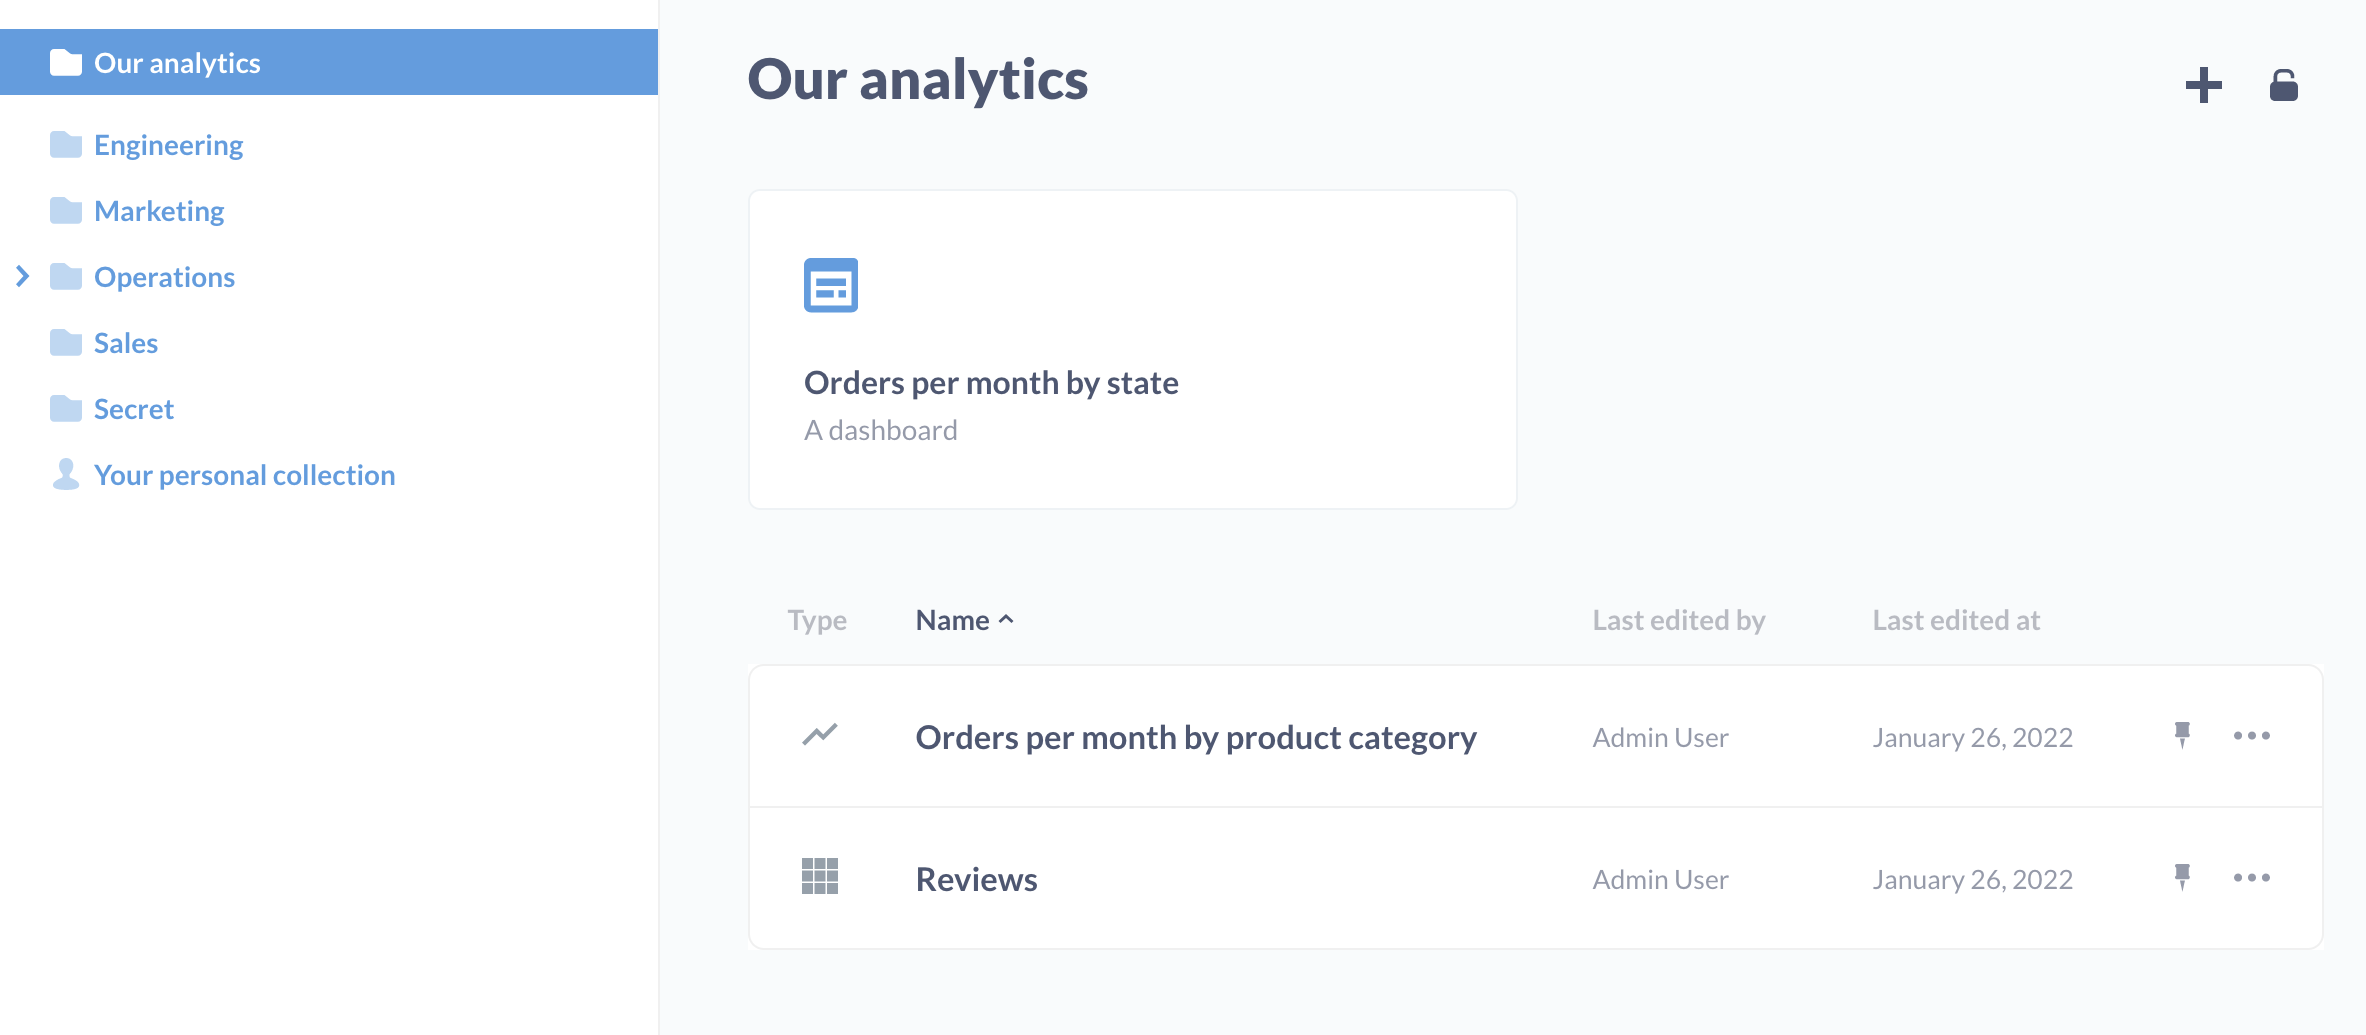
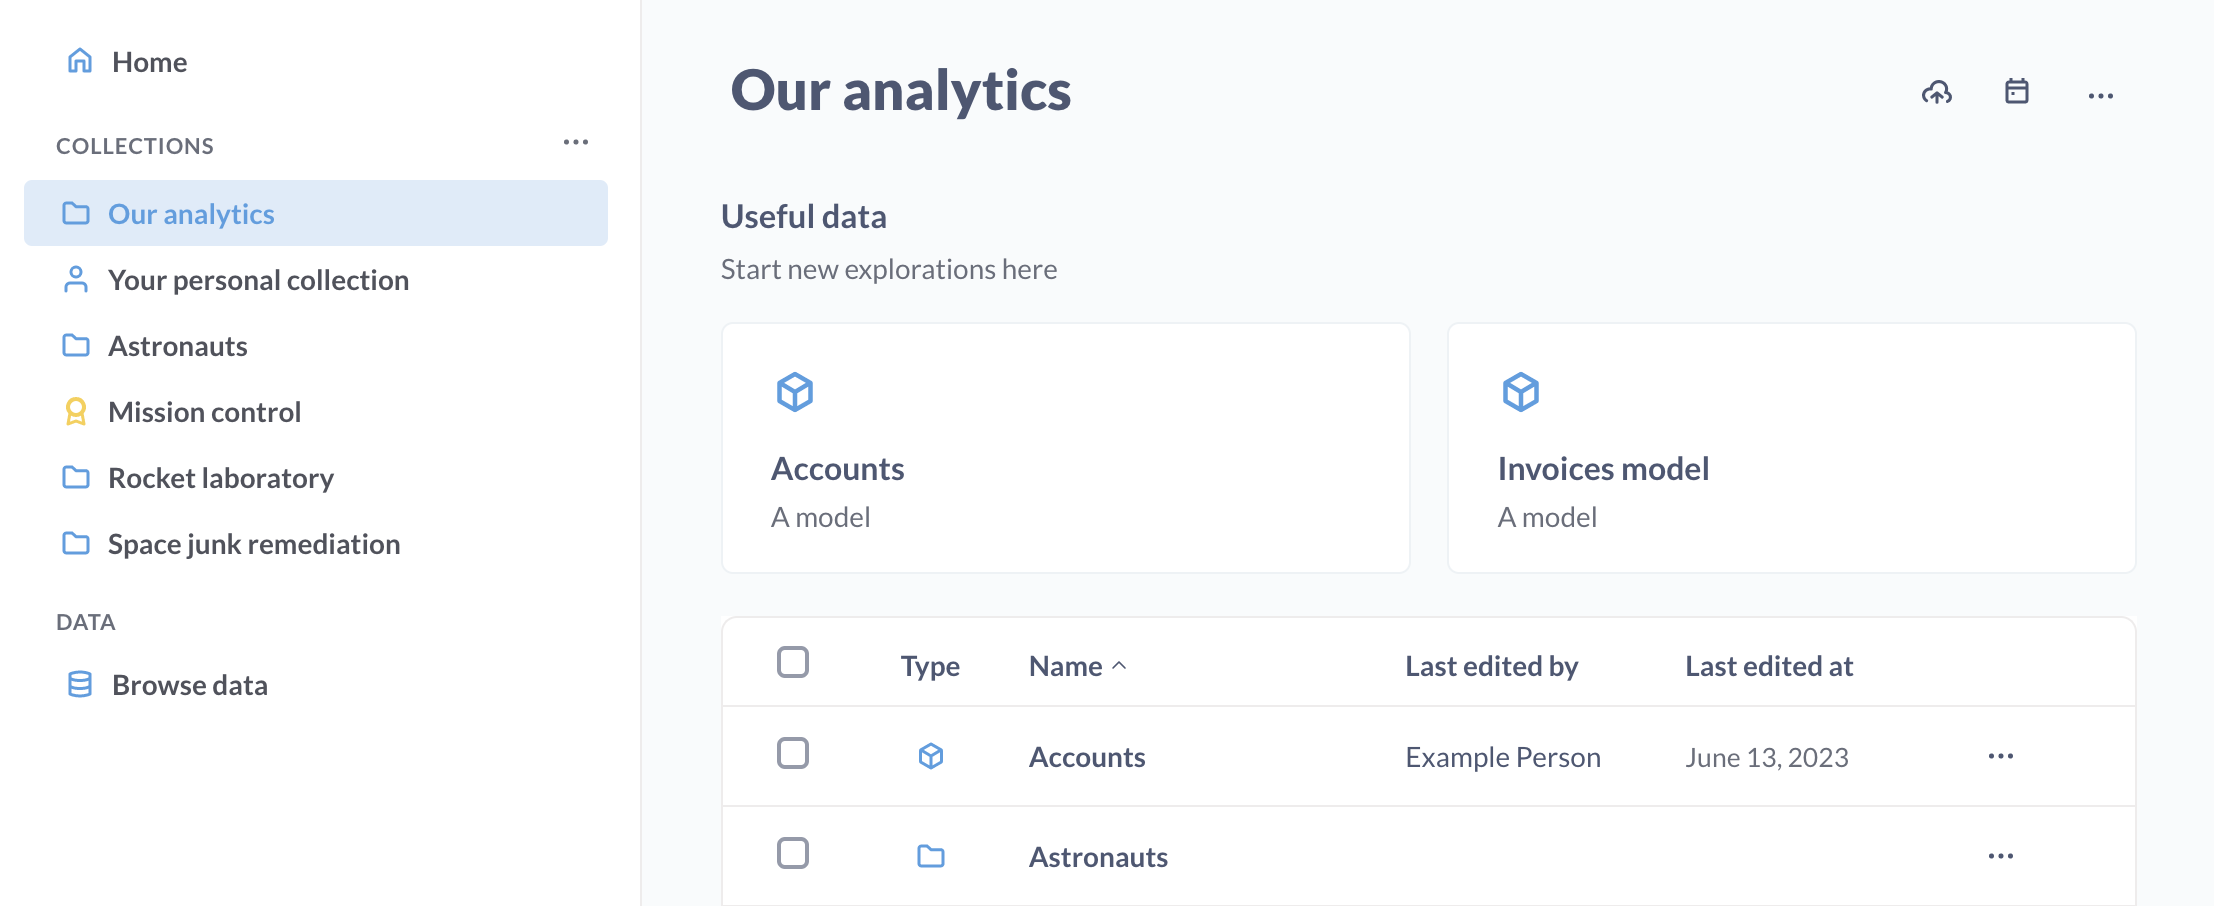
docs - csv uploads (#31629)

diff --git a/frontend/src/metabase/admin/settings/components/UploadSettings/UploadSettings.tsx b/frontend/src/metabase/admin/settings/components/UploadSettings/UploadSettings.tsx
@@ -69,8 +69,8 @@ const Header = () => (
   <SettingHeader
     id="upload-settings"
     setting={{
-      display_name: t`Allow users to upload data to Collections`,
-      description: jt`Users will be able to upload CSV files that will be stored in the ${(
+      display_name: t`Allow people to upload data to Collections`,
+      description: jt`People will be able to upload CSV files that will be stored in the ${(
         <Link
           className="link"
           key="db-link"

diff --git a/frontend/src/metabase/admin/settings/components/UploadSettings/UploadSettings.unit.spec.tsx b/frontend/src/metabase/admin/settings/components/UploadSettings/UploadSettings.unit.spec.tsx
@@ -99,7 +99,7 @@ describe("Admin > Settings > UploadSetting", () => {
   it("should render a description", async () => {
     setup();
     expect(
-      screen.getByText("Allow users to upload data to Collections"),
+      screen.getByText("Allow people to upload data to Collections"),
     ).toBeInTheDocument();
   });
 

diff --git a/docs/databases/uploads.md b/docs/databases/uploads.md
@@ -1,0 +1,83 @@
+---
+title: Uploading data
+---
+
+# Uploading data
+
+You can upload data in CSV format to Metabase and start asking questions about it. This feature is best suited for ad hoc analysis of spreadsheet data. If you have a lot of data, or will need to update or add to that data regularly, we recommend setting up a way to load that data into a database directly, then connecting Metabase to that database.
+
+## Enabling uploads
+
+There are a few things admins need to do to support CSV uploads:
+
+- [Connect to a database using a database user account with write access](#connect-to-a-database-using-a-database-user-account-with-write-access). This way Metabase will be able to store the uploaded data somewhere.
+- [Select the database and schema you want to store the uploaded data in](#select-the-database-and-schema-that-you-want-to-store-the-data-in).
+- (Optional) [specify a prefix for Metabase to prepend to the uploaded tables](#specify-a-prefix-for-metabase-to-prepend-to-the-uploaded-tables).
+
+### Databases that support uploads
+
+- [PostgreSQL](../databases/connections/postgresql.md)
+- [MySQL](../databases/connections/mysql.md)
+
+### Connect to a database using a database user account with write access
+
+To upload data to Metabase, an admin will need to connect your Metabase to a database that supports uploads using a database user account that has write access to that database.
+
+You can also upload data to the Sample Database included with Metabase (an H2 database), though we don't recommend using the Sample Database for any data that you want to keep around.
+
+For more, check out:
+
+- [Adding and managing databases](./connecting.md)
+- [Database users, roles, and privileges](./users-roles-privileges.md)
+
+### Select the database and schema that you want to store the data in
+
+If Metabase is connected to a database using a database user account with write access, Admins can enable uploads by:
+
+- Clicking on the **gear** icon in the upper right on the home page and navigating to **Admin settings** > **Settings** > **Uploads**.
+- Selecting the database Metabase should use to store the data.
+
+When people upload a CSV to a collection, Metabase will:
+
+- Create a table to store that data in the database and schema that the Admin selected to store uploads.
+- Create a [model](../data-modeling/models.md) that wraps the uploaded table, and save that model to the collection the person uploaded the CSV data to.
+
+### Specify a prefix for Metabase to prepend to the uploaded tables
+
+Admins can optionally specify a string of text to add in front of the table that Metabase creates to store the uploaded data.
+
+## File size limit
+
+CSV files cannot exceed 200 MB in size.
+
+> Note that while Metabase limits uploads to 200 MB, the server you use to run your Metabase may impose a separate limit. You may need to change your server settings to allow uploads up to 200 MB. People on Metabase Cloud don't have to worry about this.
+
+If you have a file larger than 200 MB, the workaround here is to:
+
+1. Split the data into multiple files.
+2. Upload those files one by one. Metabase will create a new model for each sheet.
+3. Consolidate that data by creating a new question or model that joins the data from those constituent models created by each upload.
+
+## Deleting models and tables created by uploads
+
+### Models
+
+You can archive a model by clicking on the three dots in the upper right and selecting **Archive**.
+
+For deleting models completely, see [Deleting items permanently](../exploration-and-organization/history.md#deleting-items-permanently).
+
+### Tables
+
+You'll need to drop that table in the database itself (not in Metabase). For how to delete tables, see your database's documentation.
+
+## Note on uploading data to a MySQL database
+
+For speeding up uploads to a MySQL database, we recommend that you set a `local_infile` to `ON`. You'll need to set this `local_infile` in MySQL, not Metabase. The command-line format is `--local-infile=ON`.
+
+If `local_infile` is disabled (set to `OFF`), Metabase will automatically fall back to uploading CSVs in a much slower way.
+
+For more context, check out:
+
+- [Non-LOCAL Versus LOCAL Operation](https://dev.mysql.com/doc/refman/8.0/en/load-data.html#load-data-local)
+- [Reference docs for the local_infile variable](https://dev.mysql.com/doc/refman/8.0/en/server-system-variables.html#sysvar_local_infile)
+- [Security Considerations for LOAD LOCAL DATA](https://dev.mysql.com/doc/refman/8.0/en/load-data-local-security.html

diff --git a/docs/databases/start.md b/docs/databases/start.md
@@ -8,6 +8,14 @@ title: Databases overview
 
 Connect to and manage your databases.
 
+## [Database users, roles, and privileges](./users-roles-privileges.md)
+
+Bundling your privileges into roles based on use cases makes it easier to manage privileges in the future.
+
+## [Syncing and scanning databases](./sync-scan.md)
+
+Metabase runs different types of queries to stay up to date with your database.
+
 ## [Encrypting your database connection](./encrypting-details-at-rest.md)
 
 Learn how to encrypt your database connection credentials at rest.
@@ -19,3 +27,7 @@ Metabase can connect to some databases by first establishing a connection to a s
 ## [SSL certificate](./ssl-certificates.md)
 
 You can connect your Metabase Cloud or self-hosted instance to a database using Secure Socket Layer (SSL) encryption with a certificate.
+
+## [Uploading data](./uploads.md)
+
+You can set Metabase up so you can upload CSV files to a database.

diff --git a/docs/exploration-and-organization/collections.md b/docs/exploration-and-organization/collections.md
@@ -64,6 +64,16 @@ Note that you have to have Curate permission for the collection that you're movi
 
 You can add events to collections, and organize those events into timelines. See [Events and timelines](events-and-timelines.md).
 
+## Uploading data
+
+You can upload CSV data by clicking on the **Upload** icon in the top right of the collection page.
+
+![Upload CSV data](../databases/images/upload-icon.png).
+
+Metabase will create a [model](../data-modeling/models.md) that contains that CSV data, as well as the model's underlying table.
+
+Uploads will only be available if your admin has enabled uploads for your Metabase. See [Uploading data](../databases/uploads.md).
+
 ## Further reading
 
 - [Keeping your analytics organized](https://www.metabase.com/learn/administration/same-page)

diff --git a/docs/README.md b/docs/README.md
@@ -58,6 +58,7 @@ Metabase's reference documentation.
 - [Encrypting your database connection](./databases/encrypting-details-at-rest.md)
 - [SSH tunneling](./databases/ssh-tunnel.md)
 - [SSL certificate](./databases/ssl-certificates.md)
+- [Uploading data](./databases/uploads.md)
 
 ### Questions
 

diff --git a/docs/configuring-metabase/start.md b/docs/configuring-metabase/start.md
@@ -40,6 +40,10 @@ Guidance on timezone settings.
 
 Set language, datetime, and currency settings.
 
+## [Uploads](../databases/uploads.md)
+
+Allow people to upload data to collections.
+
 ## [Appearance](./appearance.md)
 
 Customize colors, fonts, and other visual elements.
